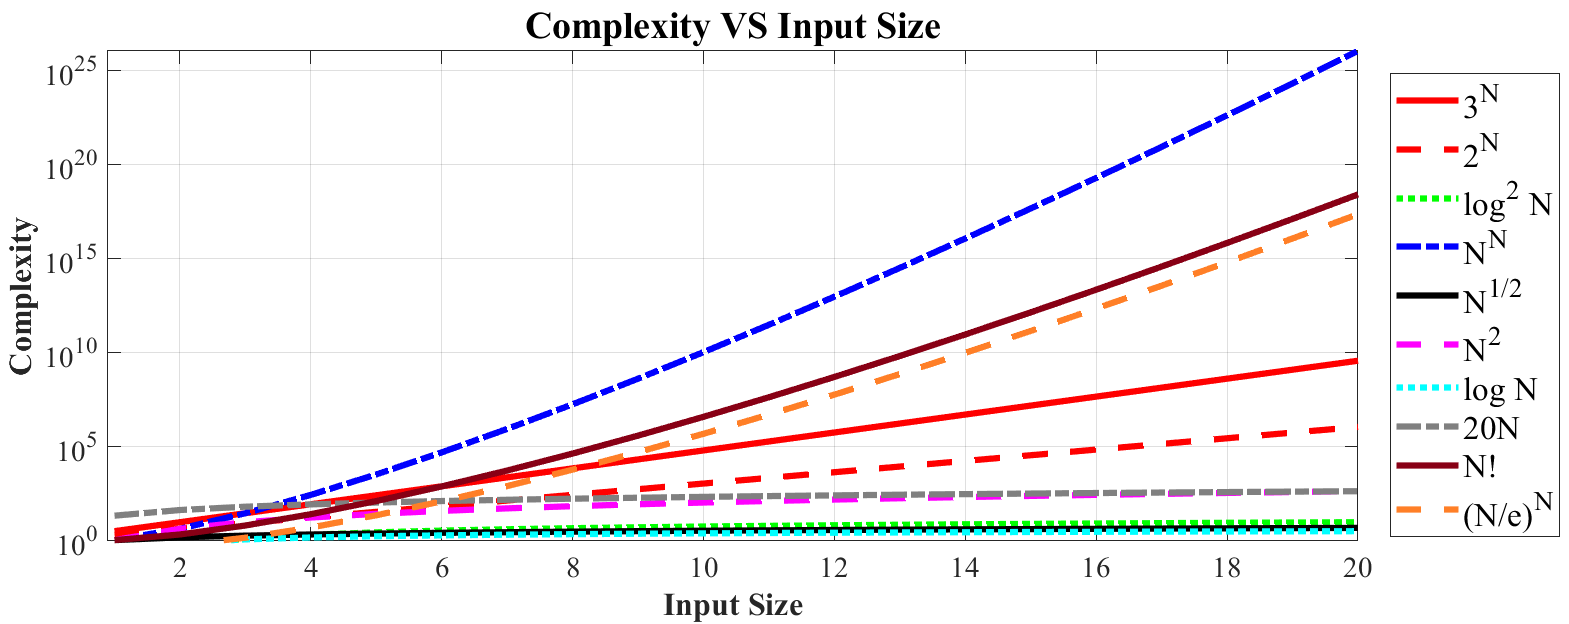
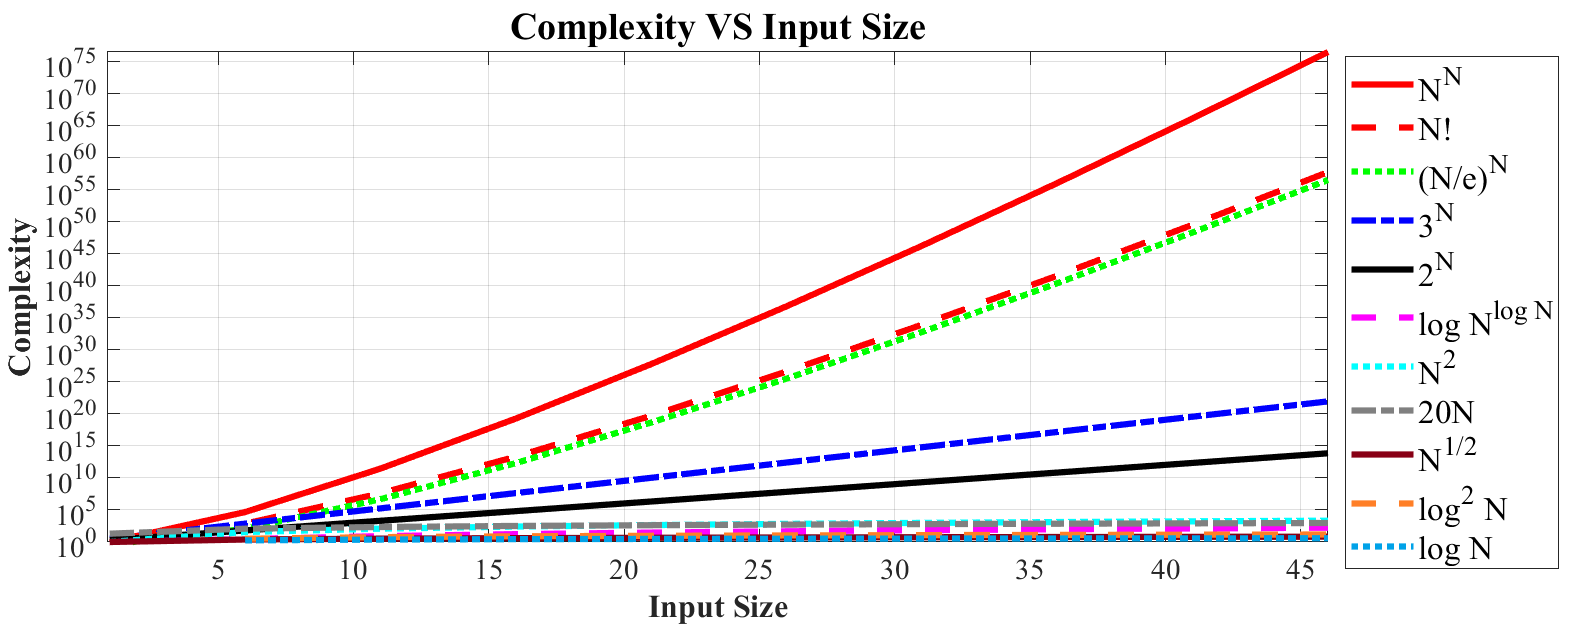
update

Changed region(s): [[0.0, 0.0, 0.9994, 0.9439], [0.406, 0.9439, 0.5309, 1.0]]

diff --git a/Yujie-plot/算法复杂度曲线/complexityPlot.m b/Yujie-plot/算法复杂度曲线/complexityPlot.m
@@ -51,19 +51,31 @@ plotDrawStyle = {struct('color',[1,0,0],'style','-'),...
     struct('color',[0,128,128]/255,'style','-'),...
     };
 
-fxSet = {struct('complexity',@(x) 3^x, 'name', '3^N'),...
-    struct('complexity',@(x) sqrt(4^x), 'name', '2^{N}'),...
-    struct('complexity',@(x) log(x)^2, 'name', '{log}^2 {N}'),...
-    struct('complexity',@(x) x^x, 'name', 'N^N'),...
-    struct('complexity',@(x) sqrt(x), 'name', 'N^{1/2}'),...
-    struct('complexity',@(x) x^2, 'name', 'N^2'),...
-    struct('complexity',@(x) log(x), 'name', '{log} N'),...
-    struct('complexity',@(x) 20*x, 'name', '20N'),...
+% overall
+fxSet = ...
+   {struct('complexity',@(x) x^x, 'name', 'N^N'),...
     struct('complexity',@(x) factorial(x), 'name', 'N!'),...
     struct('complexity',@(x) (x/exp(1))^x, 'name', '(N/e)^N'),...
+    struct('complexity',@(x) 3^x, 'name', '3^N'),...
+    struct('complexity',@(x) sqrt(4^x), 'name', '2^{N}'),...
+    struct('complexity',@(x) (log(x))^log(x), 'name', '{log N}^{log N}'),...
+    struct('complexity',@(x) x^2, 'name', 'N^2'),...
+    struct('complexity',@(x) 20*x, 'name', '20N'),...
+    struct('complexity',@(x) sqrt(x), 'name', 'N^{1/2}'),...
+    struct('complexity',@(x) log(x)^2, 'name', '{log}^2 {N}'),...
+    struct('complexity',@(x) log(x), 'name', '{log} N'),...
     };
+% small set
+% fxSet = ...
+%    {struct('complexity',@(x) (log(x))^log(x), 'name', '{log N}^{log N}'),...
+%     struct('complexity',@(x) x^2, 'name', 'N^2'),...
+%     struct('complexity',@(x) 20*x, 'name', '20N'),...
+%     struct('complexity',@(x) sqrt(x), 'name', 'N^{1/2}'),...
+%     struct('complexity',@(x) log(x)^2, 'name', '{log}^2 {N}'),...
+%     struct('complexity',@(x) log(x), 'name', '{log} N'),...
+%     };
 
-xRange = [1:20];
+xRange = [1:5:50];
 resultMat = zeros(length(fxSet), length(xRange));
 tmpName=cell(length(fxSet),1);
 for i = 1:length(fxSet)

diff --git a/关键指令与技巧.md b/关键指令与技巧.md
@@ -32,7 +32,13 @@
 3. 输出为pdf
 
    ```matlab
-   % 输出保存
+   % https://ww2.mathworks.cn/help/matlab/ref/print.html
+   print(saveName,'-dpng');
+   print(saveName,'-dpdf','-bestfit'); % '-bestfit' | '-fillpage'
+   print(saveName,'-dtiffn');
+   print(saveName,'-deps');
+   
+   % 输出保存(不建议使用)
    saveas(gcf,'example.pdf'); % pdf
    saveas(gcf,'example','png'); % png
    ```

diff --git a/Yujie-plot/算法复杂度曲线/readme.md b/Yujie-plot/算法复杂度曲线/readme.md
@@ -1,5 +1,12 @@
-# 算法复杂度曲线
+# 算法复杂度曲线 | Complexity plot
 
 > plot for better understanding of the algorithm complexity
 
-![complexityPlot](./complexityPlot.png)
+- overall
+
+  ![complexityPlot](./complexityPlot.png)
+
+- subset (include set small than exponential function)
+
+  ![small_complexityPlot](./small_complexityPlot.png)
+
